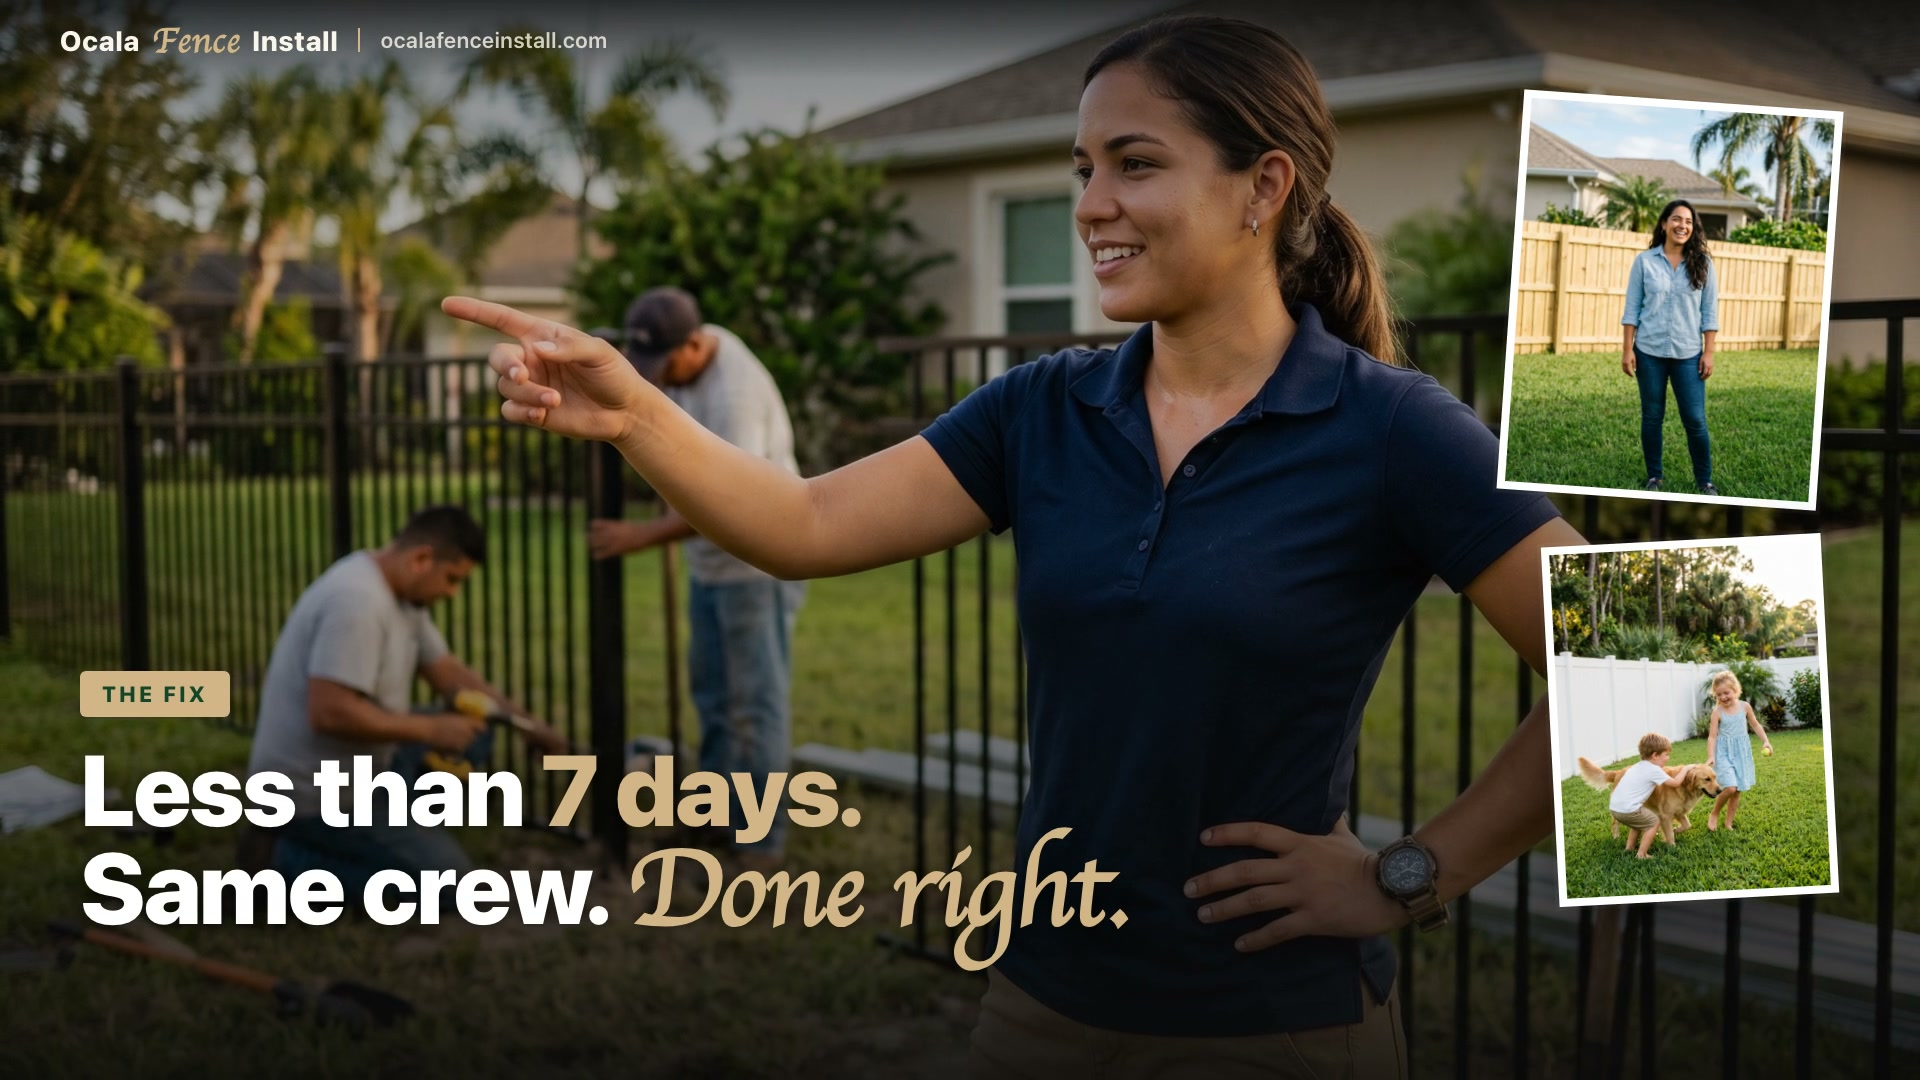
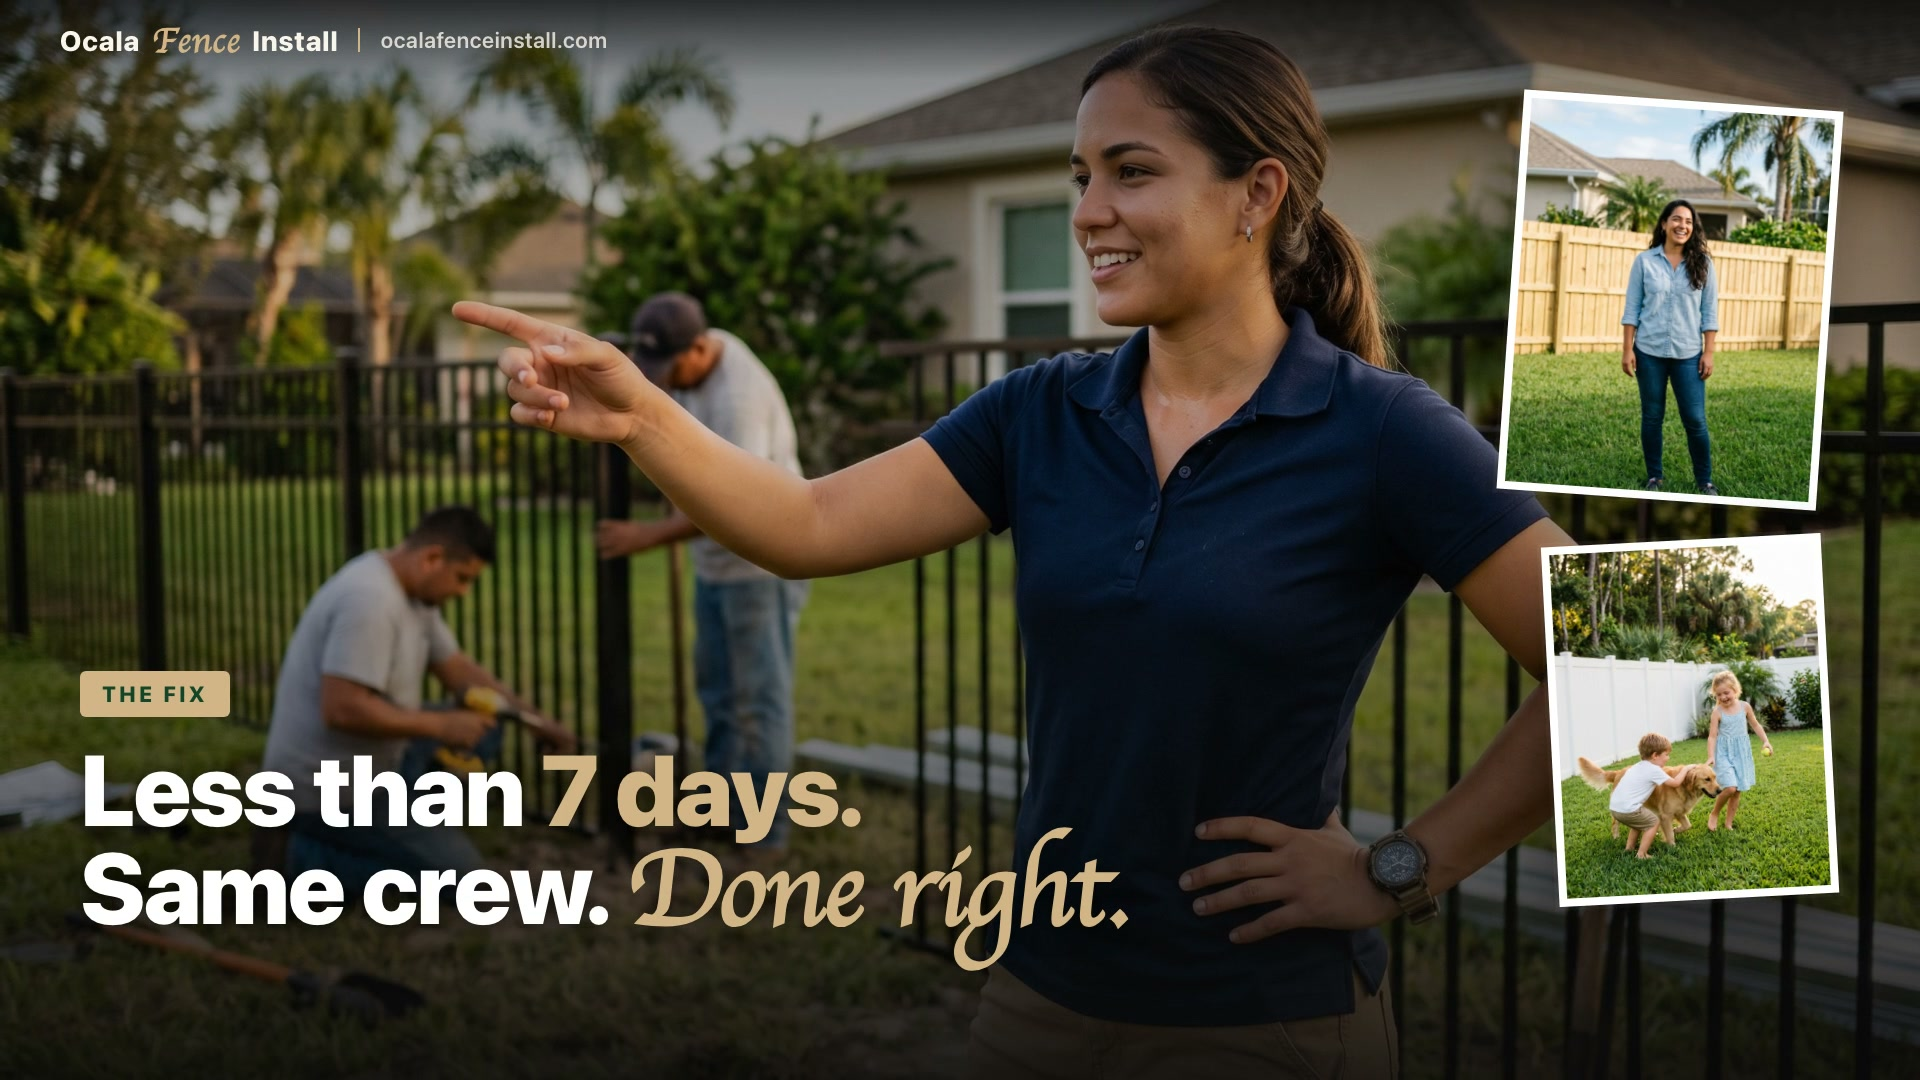
fix(video): better thumbnail (Andry team) + pulsing play button
- Replace poster with cinematic Andry team frame ('Done right' headline)
- Bigger play button with double pulsing ring animation
- Stronger drop shadow + uppercase 'WATCH HOW WE WORK' label
- Communicates clearly that this is a video to play

diff --git a/src/styles/global.css b/src/styles/global.css
@@ -137,4 +137,26 @@
       animation: none;
     }
   }
+
+  /* Video play button pulsing rings */
+  @keyframes video-ring-pulse {
+    0% {
+      transform: scale(1);
+      opacity: 0.7;
+    }
+    100% {
+      transform: scale(1.6);
+      opacity: 0;
+    }
+  }
+
+  .video-ring-pulse {
+    animation: video-ring-pulse 2s ease-out infinite;
+  }
+
+  @media (prefers-reduced-motion: reduce) {
+    .video-ring-pulse {
+      animation: none;
+    }
+  }
 }
